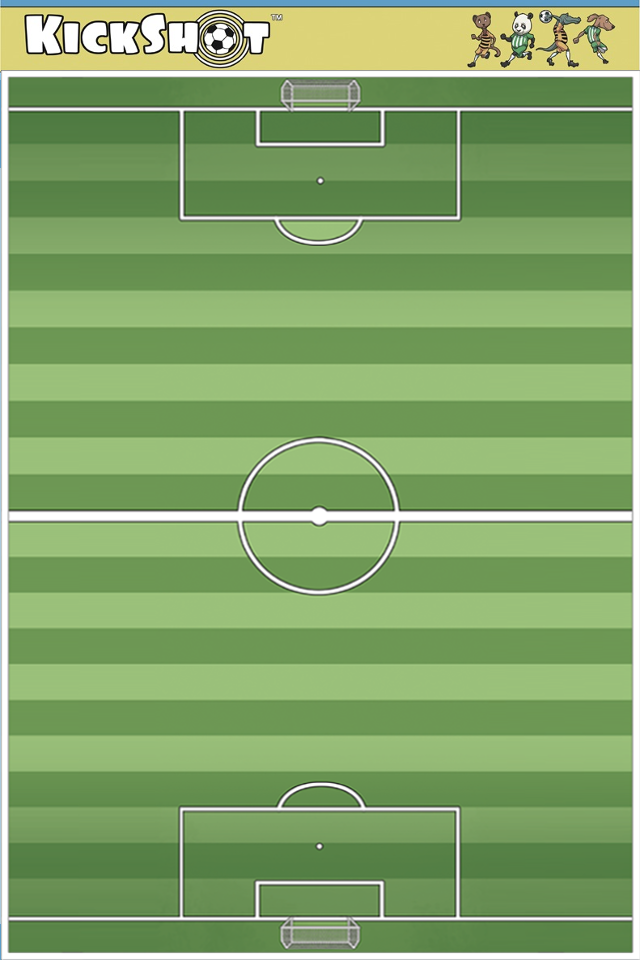
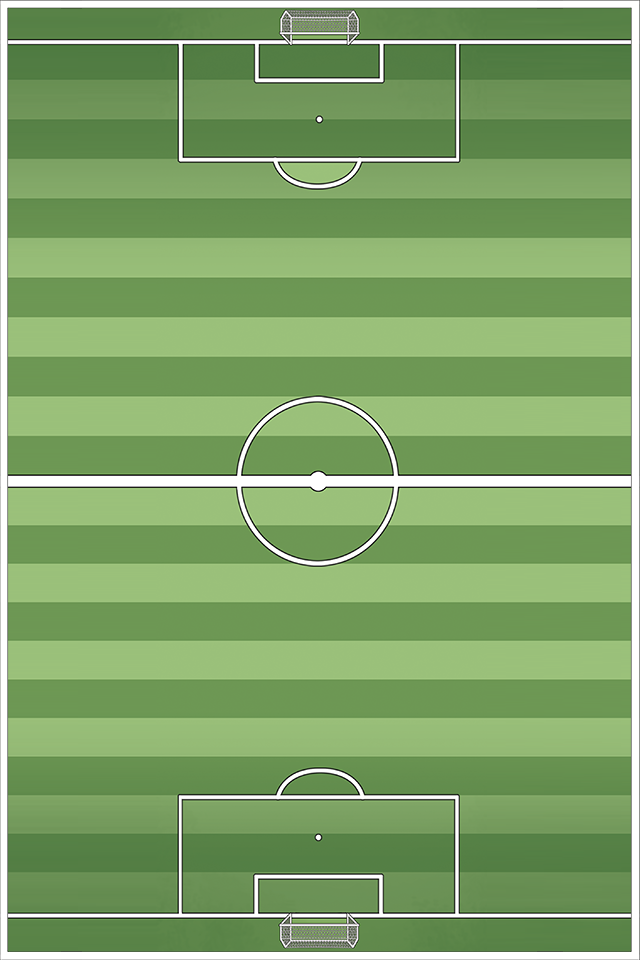
Changed Board
Got rid of "KickShot" logo strip on top of board. Moved buttons and text
to fit new board.

diff --git a/src/game/main.js b/src/game/main.js
@@ -150,7 +150,7 @@ game.createScene('Game', {
         this.aiScoreText.position.set(500, -game.system.height + 110);
         this.humanScoreText = new game.BitmapText('YOU: 0', { font: 'Foo' }).addTo(this.stage);
         this.humanScoreText.position.set(465, -110);
-        this.addTween(this.aiScoreText, {y: 110}, 600, { delay: 400, easing: game.Tween.Easing.Quadratic.Out }).start();
+        this.addTween(this.aiScoreText, {y: 50}, 600, { delay: 400, easing: game.Tween.Easing.Quadratic.Out }).start();
         this.addTween(this.humanScoreText, {y: 850}, 600, { delay: 400, easing: game.Tween.Easing.Quadratic.Out }).start();
 
         this.helpButton = new game.Sprite('help').addTo(this.stage);
@@ -160,7 +160,7 @@ game.createScene('Game', {
         this.helpButton.y = -960 + 150;
         this.helpButton.interactive = true;
         this.helpButton.click = this.helpButton.tap = this.helpClick.bind(this);
-        this.addTween(this.helpButton, {y: 150}, 600, {delay: 400, easing: game.Tween.Easing.Quadratic.Out}).start();
+        this.addTween(this.helpButton, {y: 90}, 600, {delay: 400, easing: game.Tween.Easing.Quadratic.Out}).start();
 
         this.backButton = new game.Sprite('close').addTo(this.stage);
         this.backButton.anchor.set(0.5, 0.5);
@@ -169,7 +169,7 @@ game.createScene('Game', {
         this.backButton.y = -960 + 225;
         this.backButton.interactive = true;
         this.backButton.click = this.backButton.tap = this.backClick.bind(this);
-        this.addTween(this.backButton, {y: 225}, 600, {delay: 400, easing: game.Tween.Easing.Quadratic.Out}).start();
+        this.addTween(this.backButton, {y: 165}, 600, {delay: 400, easing: game.Tween.Easing.Quadratic.Out}).start();
 
         this.rules = new game.Sprite('rules').addTo(this.stage);
         this.rules.x = -640;
